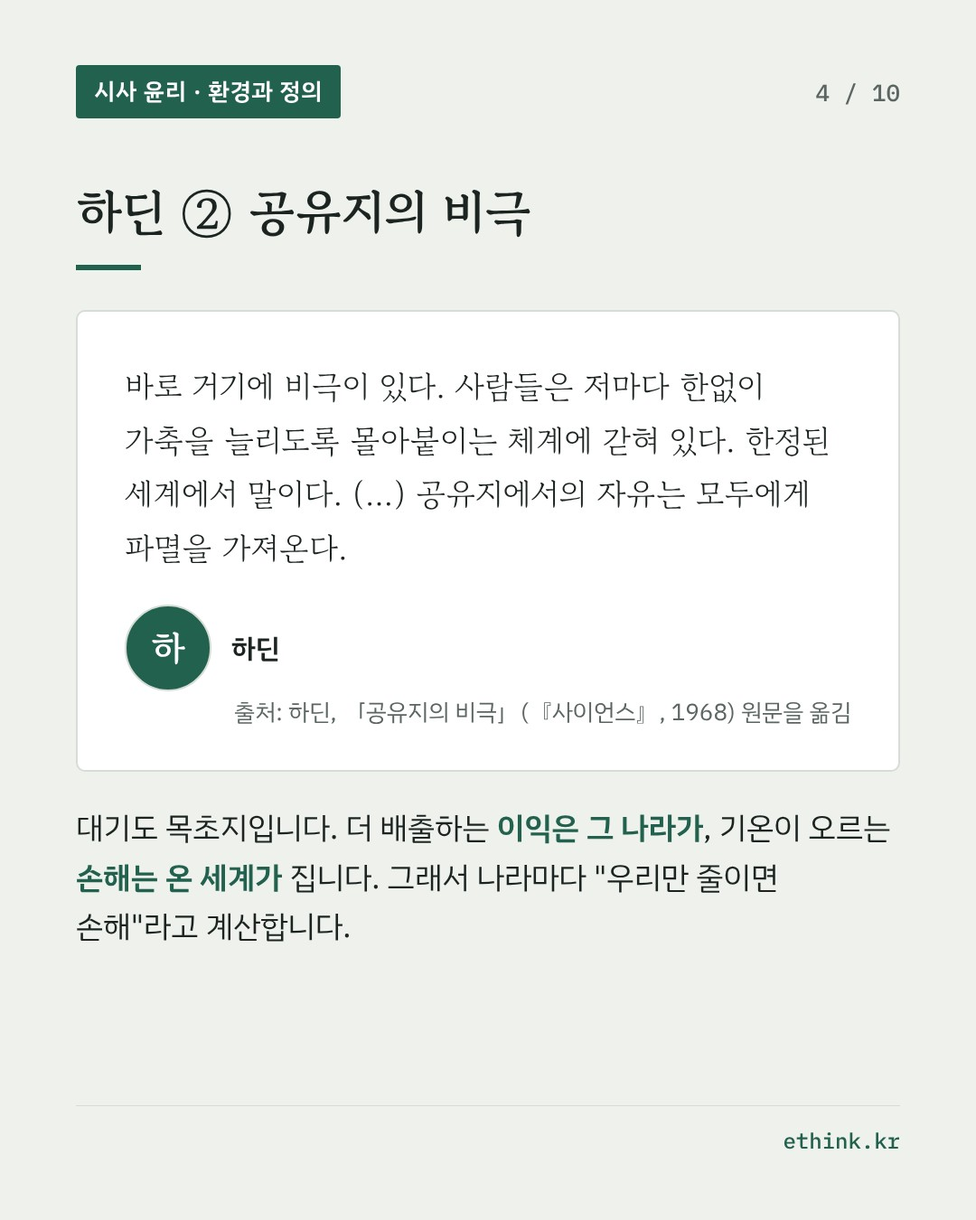
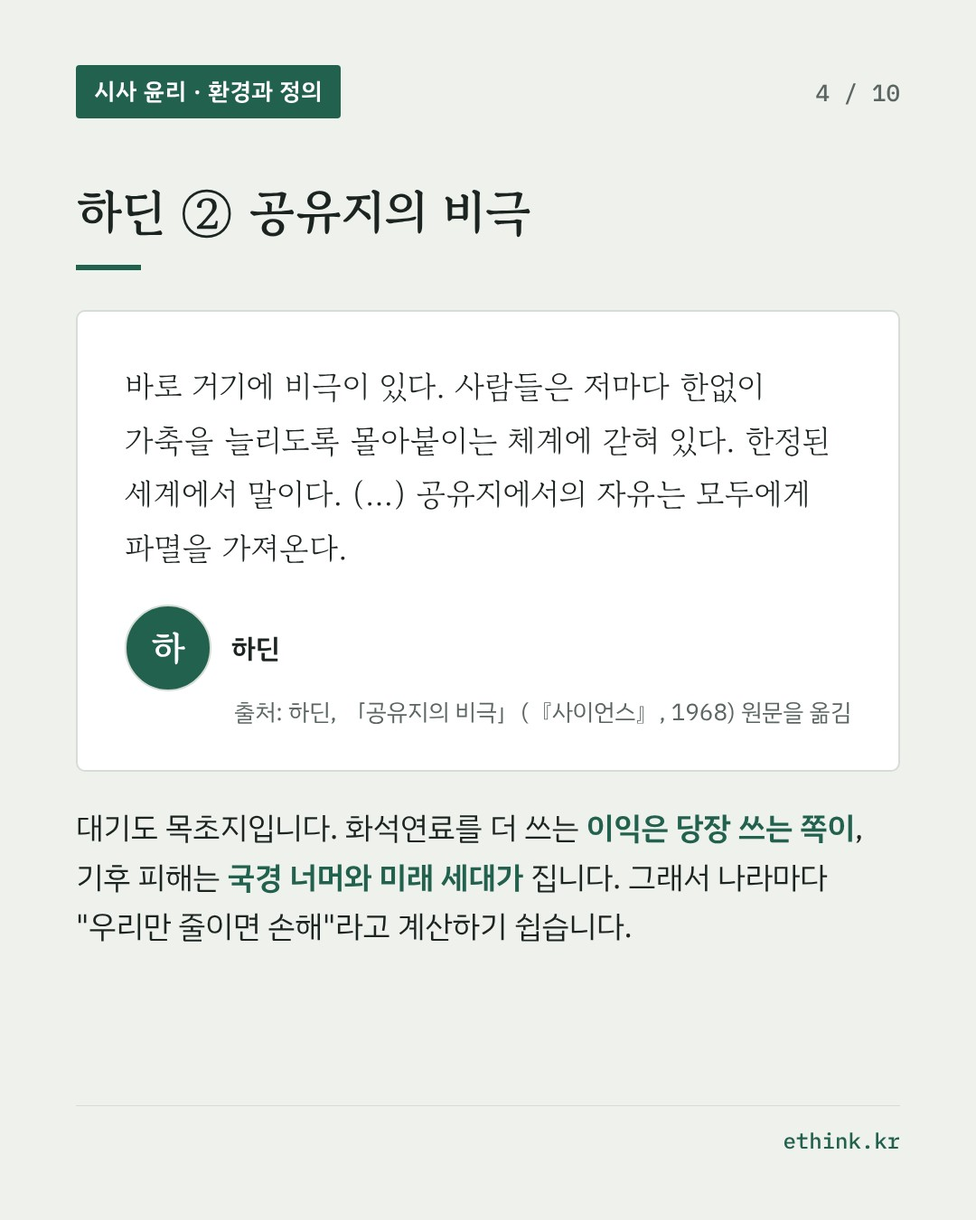
11.3 초안 수정: 검토 반영(1.5도 복귀 조건, 몫의 구분, 롤스 원칙 적용 주체, 하딘 다수 합의·오염·원조, 파리 협정 의무, 오스트롬, 중국 32% 출처, 목초지 게임 규칙), 카드 2·4·5·8장·캡션
Claude-Session: https://claude.ai/code/session_01KzEbiML6phoEPjeXzNiD6i

Changed region(s): [[0.0611, 0.6533, 0.9167, 0.7778]]

diff --git a/_items/2026-11-03/1.md b/_items/2026-11-03/1.md
@@ -13,25 +13,27 @@ sources:
     url: https://wedocs.unep.org/items/87c02cac-8da8-4c28-ba61-c846ee68ea70
   - name: 네덜란드 환경평가청 PBL (10.21)
     url: https://www.pbl.nl/en/publications/unep-emissions-gap-report-2026
-  - name: TIME (10.21)
-    url: https://time.com/article/2026/10/21/un-emissions-gap-report-what-to-know/
+  - name: 유엔환경계획 보도자료 (10.21)
+    url: https://www.unep.org/news-and-stories/press-release/new-unep-report-lays-out-emission-cuts-needed-return-15degc
+  - name: 네덜란드 환경평가청 PBL 보도자료 (10.21)
+    url: https://www.pbl.nl/en/latest/news/new-unep-report-lays-out-emission-cuts-needed-for-return-to-15degc
   - name: Materia Rinnovabile (10.21)
     url: https://www.renewablematter.eu/en/emissions-gap-report-2026-current-climate-commitments-are-not-enough
-  - name: The Brussels Times (10.22)
-    url: https://www.brusselstimes.com/2372746/overshoot-is-not-surrender-un-issues-strong-warnings-ahead-of-climate-change-summit
+  - name: 글로벌 탄소 프로젝트 「Global Carbon Budget 2025」 (2025.11.13)
+    url: https://www.cger.nies.go.jp/gcp/pdf/20251113/CarbonBudget2025_CICERO_press_E.pdf
   - name: 유엔기후변화협약 COP31 안내
     url: https://www.unfccc.int/cop31/the-road-to-antalya
 og_image: /assets/og/2026-11-03-1.jpg
 ---
 ##### 무슨 일이 있었나
 
-유엔환경계획(UNEP)이 10월 21일 「배출량 격차 보고서 2026」을 냈습니다. 부제는 「돌아올 지점(The Point of Return)」입니다. 보고서는 세계가 지금의 기후 정책을 그대로 이어 가면 이번 세기 안에 지구 평균기온이 산업화 이전보다 2.8도까지 오를 수 있다고 전망했습니다. 각국이 약속한 감축 목표를 모두 지키면 2.6도, 탄소 중립 목표까지 지키면 2.1도입니다. 파리 협정의 목표인 1.5도를 넘지 않는 길은 사실상 닫혔다고 보았습니다. 보고서의 대표 저자 미헐 덴 엘전은 "1.5도를 조금만 넘는 목표는 이제 불가능하다"고 말했습니다.
+유엔환경계획(UNEP)이 10월 21일 「배출량 격차 보고서 2026」을 냈습니다. 부제는 「돌아올 지점(The Point of Return)」입니다. 보고서는 세계가 지금의 기후 정책을 그대로 이어 가면 이번 세기 안에 지구 평균기온이 산업화 이전보다 2.8도까지 오를 수 있다고 전망했습니다. 각국이 약속한 감축 목표를 모두 지키고 그 뒤에도 비슷한 노력을 이어 가면 2.6도, 탄소 중립 목표까지 지키면 2.1도입니다. 파리 협정의 목표인 1.5도를 넘지 않는 길은 사실상 닫혔다고 보았습니다. 보고서 작성에 참여한 네덜란드 환경평가청(PBL)의 미헐 덴 엘전은 "1.5도를 조금만 넘는 목표는 이제 불가능하다"고 말했습니다.
 
-그래도 1.5도로 돌아올 길은 남아 있다고 보고서는 말합니다. 기온이 1.7~1.8도에서 정점을 찍고 2100년까지 1.5도로 내려오려면, 2025년보다 온실가스를 2030년까지 18%, 2035년까지 45%, 2040년까지 69% 줄여야 합니다. 그런데 각국이 지금 약속한 목표를 다 지켜도 2030년까지 5~8%, 2035년까지 11~15%밖에 줄지 않습니다. 지금 수준으로 5년을 더 배출할 때마다 정점 기온은 0.1도쯤 높아집니다. 좋은 소식도 있습니다. 파리 협정 뒤 세계의 재생에너지 발전 설비는 예상보다 세 배, 태양광은 일곱 배 빠르게 늘었습니다. 안토니우 구테흐스 유엔 사무총장은 보고서 발표에 맞춰 "책임이 가장 적은 사람들이 가장 먼저, 가장 혹독하게 대가를 치르고 있다"고 말했습니다. 이 보고서를 들고 각국 대표는 11월 9일부터 20일까지 튀르키예 안탈리아에서 열리는 제31차 유엔 기후변화협약 당사국총회(COP31)에 모입니다.
+그래도 1.5도로 돌아올 길은 남아 있다고 보고서는 말합니다. 이번 세기 중반 기온 상승을 1.7~1.8도에서 멈춘 뒤 2100년까지 1.5도 이하로 되돌리는 경로입니다. 그 가능성을 50% 정도로 본 시나리오입니다. 이 경로를 따르려면 2025년보다 온실가스를 2030년까지 18%, 2035년까지 45%, 2040년까지 69% 줄여야 합니다. 대기 중 이산화탄소를 빼내 오래 저장하는 일(이번 세기에 약 3,200억 톤)도 함께 필요합니다. 그런데 각국이 지금 약속한 목표를 다 지켜도 2030년까지 5~8%, 2035년까지 11~15%밖에 줄지 않습니다. 지금 수준의 이산화탄소 배출이 5년 더 이어질 때마다 정점 기온은 0.1도쯤 높아집니다. 좋은 소식도 있습니다. 파리 협정 뒤 세계의 재생에너지 발전 설비는 예상했던 속도보다 세 배, 태양광은 일곱 배 빠르게 늘었습니다. 안토니우 구테흐스 유엔 사무총장은 보고서 발표에 맞춰 "책임이 가장 적은 사람들이 가장 먼저, 가장 혹독하게 대가를 치르고 있다"고 말했습니다. 이 보고서를 들고 각국 대표는 11월 9일부터 20일까지 튀르키예 안탈리아에서 열리는 제31차 유엔 기후변화협약 당사국총회(COP31)에 모입니다.
 
 ##### 왜 윤리 문제인가
 
-2.8도라는 숫자는 과학의 전망입니다. 그런데 "그러니 누가 얼마나 줄여야 하는가"는 과학이 답해 주지 않습니다. 온실가스를 줄이는 데는 돈이 들고, 공장과 발전소를 바꿔야 하고, 성장을 늦춰야 할 때도 있습니다. 그 부담을 어떻게 나누느냐는 분배의 문제, 즉 정의의 문제입니다.
+2.8도라는 숫자는 과학의 전망입니다. 그런데 과학적 전망만으로는 "그러니 누가 얼마나 줄여야 하는가"의 기준까지 정할 수 없습니다. 온실가스를 줄이는 데는 돈이 들고, 공장과 발전소를 바꿔야 하고, 성장을 늦춰야 할 때도 있습니다. 그 부담을 어떻게 나누느냐는 분배의 문제, 즉 정의의 문제입니다.
 
 물음은 두 가지입니다. 첫째, 다들 위험을 아는데 왜 배출은 줄지 않는가. 둘째, 줄여야 한다면 그 몫은 무엇을 기준으로 나누는가. 먼저 많이 배출해 온 나라가 더 줄여야 하는가, 지금 많이 배출하는 나라가 더 줄여야 하는가, 아니면 사람 수대로 똑같이 나누어야 하는가.
 
@@ -39,7 +41,7 @@ og_image: /assets/og/2026-11-03-1.jpg
 
 ##### 하딘으로 읽기: 모두에게 열린 목초지
 
-하딘(1915~2003)은 미국의 생태학자입니다. 1968년 과학 학술지 『사이언스』에 「공유지의 비극」이라는 글을 실었습니다. 그는 19세기 영국 학자 로이드가 들었던 목초지 이야기로 글을 엽니다.
+하딘(1915~2003)은 미국의 생태학자입니다. 1968년 과학 학술지 『사이언스』에 「공유지의 비극」이라는 글을 실었습니다. 그는 이 글에서 19세기 영국 학자 로이드의 목초지 이야기를 가져와 공유지의 비극을 설명합니다.
 
 <figure class="src">
 <blockquote>
@@ -57,19 +59,39 @@ og_image: /assets/og/2026-11-03-1.jpg
 <figcaption><span class="who">하딘</span><span class="from">출처: 하딘, 「공유지의 비극」(『사이언스』, 1968) 원문을 옮김</span></figcaption>
 </figure>
 
-하딘은 같은 글에서 오염에도 이 비극이 되풀이된다고 말합니다. 목초지에서는 풀을 꺼내 가지만, 오염에서는 무언가를 버려 넣습니다. 강에 폐수를, 하늘에 매연을 버립니다. 버리는 사람은 깨끗하게 처리하는 비용을 아끼고, 더러워진 공기는 모두가 마십니다.
+하딘은 같은 글에서 오염도 다룹니다.
 
-이 생각을 이번 보고서에 대어 봅니다. 대기는 모두에게 열린 목초지입니다. 어느 나라든 온실가스를 더 내보내면 공장을 더 돌리고 전기를 더 싸게 쓰는 이익은 그 나라가 가집니다. 기온이 오르는 손해는 온 세계가 나눠 집니다. 그러니 나라마다 "우리만 줄이면 손해"라고 계산합니다. 재생에너지가 세 배 빠르게 늘었는데도 감축 약속이 필요한 양에 한참 못 미치는 까닭을 이 구조로 설명할 수 있습니다.
+<figure class="src">
+<blockquote>
+<p>거꾸로, 공유지의 비극은 오염 문제에서 다시 나타난다. 여기서는 공유지에서 무언가를 꺼내 가는 것이 아니라 무언가를 넣는 것이 문제다.</p>
+</blockquote>
+<figcaption><span class="who">하딘</span><span class="from">출처: 하딘, 「공유지의 비극」(『사이언스』, 1968) 원문을 옮김</span></figcaption>
+</figure>
 
-그렇다면 어떻게 해야 할까요? 하딘은 양심에 호소하는 것만으로는 부족하다고 보았습니다. 양심을 지킨 사람은 손해를 보고, 지키지 않은 사람은 이익을 봅니다. 그는 대신 "서로 합의한 상호 강제(mutual coercion, mutually agreed upon)"를 말했습니다. 모두가 함께 동의한 규칙으로 모두를 함께 묶자는 것입니다. 세금이나 사용 제한 같은 방식입니다.
+목초지에서는 풀을 꺼내 가지만, 오염에서는 무언가를 버려 넣습니다. 강에 폐수를, 하늘에 매연을 버립니다. 버리는 사람은 깨끗하게 처리하는 비용을 아끼고, 더러워진 공기는 모두가 마십니다.
 
-그런데 파리 협정은 나라마다 스스로 목표를 정해 내는 방식입니다. 목표를 지키지 못해도 벌을 주지 않습니다. 하딘의 눈으로 보면 이번 보고서의 '격차'는 놀라운 일이 아닙니다. 다만 하딘의 설명은 왜 줄지 않는지는 보여 주지만, 누가 얼마나 줄여야 하는지는 말해 주지 않습니다. 목동마다 소의 수가 다르고, 일찍부터 풀을 먹인 목동과 이제 막 소를 들인 목동이 있다면 어떻게 할까요? 둘째 물음으로 넘어갑니다.
+이 생각을 이번 보고서에 대어 봅니다. 대기는 모두에게 열린 목초지입니다. 화석연료를 더 쓰면 당장 생산과 소비에서 이익을 얻는 사람들이 있습니다. 반면 그로 인한 기후 피해는 국경을 넘어 퍼지고, 미래 세대에게도 이어집니다. 이익을 얻는 사람과 피해를 지는 사람이 다릅니다. 그러니 나라마다 "우리만 줄이면 손해"라고 계산하기 쉽습니다. 재생에너지가 빠르게 늘었는데도 감축 약속이 필요한 양에 한참 못 미치는 이유 가운데 하나를 이 구조로 설명할 수 있습니다.
+
+그렇다면 어떻게 해야 할까요? 하딘은 양심에 호소하는 것만으로는 부족하다고 보았습니다. 양심을 지킨 사람은 손해를 보고, 지키지 않은 사람은 이익을 봅니다. 그가 대신 내놓은 답은 이렇습니다.
+
+<figure class="src">
+<blockquote>
+<p>내가 권하는 유일한 강제는 서로 합의한 상호 강제, 곧 영향을 받는 사람들 다수가 합의한 강제다.</p>
+</blockquote>
+<figcaption><span class="who">하딘</span><span class="from">출처: 하딘, 「공유지의 비극」(『사이언스』, 1968) 원문을 옮김</span></figcaption>
+</figure>
+
+영향을 받는 사람들 다수가 동의한 규칙을 만들고, 그 규칙을 함께 지키게 하자는 것입니다. 세금이나 사용 제한 같은 방식입니다.
+
+파리 협정에서는 각국이 감축 목표를 스스로 정합니다. 목표를 제출하고 갱신하며 이행 상황을 보고할 의무는 있지만, 목표를 이루지 못했다고 벌금을 물리는 방식은 아닙니다. 하딘의 눈으로 보면 이번 보고서의 '격차'는 놀라운 일이 아닙니다.
+
+다만 공동으로 쓰는 자원이 언제나 망가지는 것은 아닙니다. 2009년 노벨 경제학상을 받은 오스트롬은 이용자들이 스스로 규칙을 만들고 함께 지켜 공동 자원을 오래 관리해 온 사례를 보여 주었습니다. 비극은 피할 수 있습니다. 다만 하딘의 설명은 왜 줄지 않는지는 보여 주지만, 누가 얼마나 줄여야 하는지는 말해 주지 않습니다. 목동마다 소의 수가 다르고, 일찍부터 풀을 먹인 목동과 이제 막 소를 들인 목동이 있다면 어떻게 할까요? 둘째 물음으로 넘어갑니다.
 
 <details class="more-read">
 <summary>원문 더 읽기: 하딘의 다른 비유, 구명보트</summary>
 <div class="more-body">
 
-<p>하딘은 공유지의 비극으로 기후만이 아니라 인구와 원조 문제도 설명하려 했습니다. 길벗 『윤리문제 탐구』 교과서는 그의 '구명보트' 비유를 토론 활동으로 싣고 있습니다. 하딘은 이 비유로 부유한 나라가 가난한 나라를 돕는 데 신중해야 한다는 주장을 폈습니다. 원조를 의무로 본 싱어와 반대편에 선 셈입니다.</p>
+<p>하딘은 공유지의 비극으로 기후만이 아니라 인구와 원조 문제도 설명하려 했습니다. 길벗 『윤리문제 탐구』 교과서는 그의 '구명보트' 비유를 토론 활동으로 싣고 있습니다. 하딘은 이 비유로 부유한 나라의 원조가 장기적으로 더 큰 문제를 낳을 수 있다며 가난한 나라에 대한 원조에 반대했습니다. 원조를 의무로 본 싱어와 반대편에 선 셈입니다.</p>
 
 <figure class="src">
 <blockquote>
@@ -85,7 +107,7 @@ og_image: /assets/og/2026-11-03-1.jpg
 
 ##### 싱어로 읽기: 대기라는 수채통
 
-싱어(1946~)는 오스트레일리아 출신의 철학자입니다. 『동물 해방』으로 잘 알려져 있지만, 세계의 가난과 기후 문제에도 같은 물음을 던졌습니다. 고통받는 사람이 어디에 사느냐가 그 고통의 무게를 바꾸지 않는다는 것입니다. 그는 『세계화의 윤리』(원제 『하나의 세계』)에서 기후 문제를 한 마을 이야기로 풉니다.
+싱어(1946~)는 오스트레일리아 출신의 철학자입니다. 『동물 해방』으로 잘 알려져 있지만, 세계의 가난과 기후 문제에도 같은 물음을 던졌습니다. 고통받는 사람이 어디에 사느냐가 그 고통의 무게를 바꾸지 않는다는 것입니다. 그는 『세계화의 윤리』(원제 『하나의 세계』)에서 기후 문제를 한 마을 이야기로 풉니다. 수채통은 더러운 물이나 쓰레기를 받아 내는 통입니다.
 
 <figure class="src">
 <blockquote>
@@ -103,9 +125,9 @@ og_image: /assets/og/2026-11-03-1.jpg
 <figcaption><span class="who">싱어</span><span class="from">출처: 싱어, 『세계화의 윤리』(김희정 옮김, 아카넷)</span></figcaption>
 </figure>
 
-"충분하고도 남 못지않게 많이"는 로크가 사유 재산을 정당화하면서 쓴 말입니다. 공동의 것을 내 것으로 가져가도, 다른 사람 몫이 넉넉히 남아 있다면 괜찮다는 조건입니다. 이번 보고서는 그 조건이 깨졌다고 말하는 셈입니다. 1.5도 안에서 배출할 수 있는 여유는 이미 거의 다 썼습니다. 그렇다면 남은 몫과 줄일 몫을 어떻게 나눌까요? 싱어는 기준 몇 가지를 차례로 따집니다.
+"충분하고도 남 못지않게 많이"는 로크가 사유 재산을 정당화하면서 쓴 말입니다. 공동의 것을 내 것으로 가져가도, 다른 사람 몫이 넉넉히 남아 있다면 괜찮다는 조건입니다. 이번 보고서는 그 조건이 깨졌다고 말하는 셈입니다. 1.5도 안에서 배출할 수 있는 여유는 이미 거의 다 썼습니다. 그렇다면 무엇을 어떻게 나눌까요? 여기서 나누어야 할 것은 하나가 아닙니다. 앞으로 배출할 수 있는 양, 지금보다 줄여야 할 양, 줄이는 데 드는 비용은 서로 다릅니다. 사람마다 배출할 수 있는 몫을 같게 정하더라도, 지금 많이 배출하는 사람은 더 많이 줄여야 합니다. 이 점을 염두에 두고 싱어가 따진 기준을 차례로 봅니다.
 
-첫째 기준은 "망가뜨린 사람이 고친다"입니다. 싱어는 이것을 욕조 비유로 설명합니다.
+첫째 기준은 "망가뜨린 사람이 고친다"입니다. 수채통이 쓸 수 있는 양의 한계를 보여 준다면, 싱어의 욕조 비유는 누가 책임져야 하는지를 보여 줍니다.
 
 <figure class="src">
 <blockquote>
@@ -134,11 +156,11 @@ og_image: /assets/og/2026-11-03-1.jpg
 <figcaption><span class="who">싱어</span><span class="from">출처: 싱어, 『세계화의 윤리』(김희정 옮김, 아카넷)</span></figcaption>
 </figure>
 
-둘째 기준은 사람 수대로 똑같이 나누는 것입니다. 나라가 아니라 사람을 단위로 셉니다. 그러면 인구가 많아도 한 사람이 적게 배출하는 나라는 몫이 남고, 한 사람이 많이 배출하는 나라는 크게 줄여야 합니다. 싱어는 이 기준을 지지하면서도, 이것이 오히려 부유한 나라에 너그러운 기준이라고 덧붙입니다. 과거에 많이 쓴 몫은 셈하지 않으니까요.
+둘째 기준은 앞으로 배출할 수 있는 몫을 사람 수대로 똑같이 나누는 것입니다. 모두가 같은 양을 줄이자는 뜻이 아닙니다. 나라가 아니라 사람을 단위로 셉니다. 그러면 인구가 많아도 한 사람이 적게 배출하는 나라는 몫이 남고, 한 사람이 많이 배출하는 나라는 크게 줄여야 합니다. 싱어는 이 기준을 지지하면서도, 이것이 오히려 부유한 나라에 너그러운 기준이라고 덧붙입니다. 과거에 많이 쓴 몫은 셈하지 않으니까요.
 
-셋째 기준은 가장 어려운 사람의 처지입니다. 싱어는 롤스의 정의론을 빌려, 줄이는 비용을 나눌 때 가난한 나라를 더 가난하게 만드는 방식은 받아들일 수 없다고 봅니다. 구테흐스가 말한 "책임이 가장 적은 사람들"이 먼저 대가를 치르는 지금의 모습과 이어지는 물음입니다.
+셋째 기준은 가장 불리한 사람들의 처지를 살피는 것입니다. 싱어는 롤스의 정의 원칙을 나라 사이의 기후 문제에 적용해 봅니다. 부유한 나라가 감축 비용을 더 많이 지는 방안이 가난한 나라의 처지를 낫게 한다면, 그 부담을 거부하기 어렵다는 것입니다. 롤스 자신이 기후 비용을 이렇게 나누자고 한 것은 아닙니다. 롤스의 원칙을 기후에 대어 본 것은 싱어입니다. 이 기준은 구테흐스가 말한 "책임이 가장 적은 사람들"이 먼저 대가를 치르는 지금의 모습과도 이어집니다.
 
-세 기준은 서로 다른 답을 냅니다. 즉, "공정하게 줄이자"는 말에는 누구도 반대하지 않지만, 무엇을 공정으로 보느냐에 따라 같은 나라가 짊어질 몫이 크게 달라집니다.
+세 기준을 각각 적용하면 같은 나라가 짊어질 몫이 크게 달라질 수 있습니다. 여러 기준을 묶어 쓸 수도 있습니다. 싱어도 1인당 같은 몫에 배출권 거래를 더하는 방안을 내놓습니다. "공정하게 줄이자"는 말에는 누구도 반대하지 않지만, 무엇을 공정으로 보느냐는 따로 따져야 합니다.
 
 <details class="more-read">
 <summary>원문 더 읽기: 싱어가 따진 '가장 못 가진 자들 돕기'와 '과거는 잊자'</summary>
@@ -162,7 +184,7 @@ og_image: /assets/og/2026-11-03-1.jpg
 <figcaption><span class="who">싱어</span><span class="from">출처: 싱어, 『세계화의 윤리』(김희정 옮김, 아카넷)</span></figcaption>
 </figure>
 
-<p>이 책은 2002년에 나왔고, 싱어가 든 배출 수치도 그 무렵의 자료입니다. 그 뒤 중국과 인도 같은 나라의 배출이 크게 늘어 지금은 중국이 세계 배출의 30% 안팎을 차지합니다. 다만 한 사람이 내는 양과 산업화 이후 쌓인 양으로 보면 순위가 또 달라집니다. 어떤 수치를 고르느냐가 곧 어떤 기준을 고르느냐와 이어집니다.</p>
+<p>이 책은 2002년에 나왔고, 싱어가 든 배출 수치도 그 무렵의 자료입니다. 그 뒤 중국과 인도 같은 나라의 배출이 크게 늘었습니다. 2025년 「Global Carbon Budget」 자료에서 중국은 세계 연간 화석연료 이산화탄소 배출의 약 32%를 차지합니다. 싱어가 든 미국의 수치는 과거 일정 기간의 누적 배출이므로 두 비율을 바로 견줄 수는 없습니다. 다만 한 사람이 내는 양과 산업화 이후 쌓인 양으로 보면 순위가 또 달라집니다. 어떤 수치를 고르느냐가 곧 어떤 기준을 고르느냐와 이어집니다.</p>
 
 </div>
 </details>
@@ -176,20 +198,20 @@ og_image: /assets/og/2026-11-03-1.jpg
 <figcaption><span class="from">출처: 『윤리문제 탐구』(길벗) 157쪽</span></figcaption>
 </figure>
 
-교과서의 첫 문장은 싱어의 첫째 기준(망가뜨린 사람이 고친다)과, 마지막 문장은 셋째 기준(가난한 나라를 더 어렵게 만들지 않는다)과 닿아 있습니다. 같은 쪽에서 교과서는 미래 세대에 대한 책임을 말한 요나스도 함께 다룹니다. 지금 사는 나라들 사이의 몫만이 아니라, 아직 태어나지 않은 사람의 몫도 이 수채통에 걸려 있습니다.
+교과서의 첫 문장은 싱어의 첫째 기준(망가뜨린 사람이 고친다)과, 마지막 문장은 셋째 기준(가장 불리한 나라의 처지를 살핀다)과 닿아 있습니다. 같은 쪽에서 교과서는 미래 세대에 대한 책임을 말한 요나스도 함께 다룹니다. 지금 사는 나라들 사이의 몫만이 아니라, 아직 태어나지 않은 사람의 몫도 이 수채통에 걸려 있습니다.
 
 ##### 수업에서 쓰는 법
 
 이 사례에서는 하딘으로 "왜 줄지 않는가"를, 싱어로 "어떻게 나눌 것인가"를 다룹니다. 어느 나라가 나쁜지 고르게 하지 않습니다. 몫을 나누는 기준을 비교하고, 그 기준이 누구에게 유리하고 누구에게 불리한지 따지게 합니다.
 
 <figure class="fig">
-<p class="fig-title">줄이는 몫을 나누는 세 가지 기준(싱어)</p>
+<p class="fig-title">싱어의 논의를 바탕으로 정리한 기후 책임의 세 기준</p>
 <div class="scale scale-three">
 <div class="scale-cell"><p class="scale-head">망가뜨린 사람이 고친다</p><p>지금까지 쌓인 배출량에 따라 나눈다</p><p class="scale-ex">욕조 하수구를 막은 머리카락의 양, 산업화 이후의 누적 배출</p></div>
-<div class="scale-cell"><p class="scale-head">모든 사람에게 같은 몫</p><p>과거는 묻지 않고 사람 수대로 똑같이 나눈다</p><p class="scale-ex">1인당 배출량, 나라가 아니라 사람을 단위로</p></div>
-<div class="scale-cell"><p class="scale-head">가장 어려운 사람을 먼저</p><p>가난한 나라를 더 가난하게 만들지 않게 나눈다</p><p class="scale-ex">롤스의 정의 원칙, 지불 능력, 피해를 먼저 입는 나라</p></div>
+<div class="scale-cell"><p class="scale-head">모든 사람에게 같은 몫</p><p>앞으로 배출할 수 있는 몫을 과거는 묻지 않고 사람 수대로 똑같이 나눈다</p><p class="scale-ex">1인당 배출 허용량, 나라가 아니라 사람을 단위로. 지금 많이 배출하는 쪽은 더 많이 줄여야 한다</p></div>
+<div class="scale-cell"><p class="scale-head">가장 불리한 사람의 처지</p><p>나누는 방식이 가장 불리한 나라의 처지에 어떤 영향을 주는지 따진다</p><p class="scale-ex">싱어가 기후에 적용한 롤스의 정의 원칙. 가까운 기준으로 지불 능력(여력이 큰 쪽이 더 낸다), 피해 취약성(피해에 약한 쪽을 먼저 보호한다)이 있다</p></div>
 </div>
-<p class="fig-note">세 기준은 서로 다른 답을 냅니다. 같은 나라도 어느 기준으로 보느냐에 따라 '더 줄여야 하는 나라'가 되기도 하고 '아직 여유가 있는 나라'가 되기도 합니다.</p>
+<p class="fig-note">세 기준을 각각 적용하면 부담이 달라질 수 있고, 여러 기준을 묶어 쓸 수도 있습니다. 같은 나라도 어느 기준으로 보느냐에 따라 '더 줄여야 하는 나라'가 되기도 하고 '아직 여유가 있는 나라'가 되기도 합니다.</p>
 </figure>
 
 <figure class="fig">
@@ -198,9 +220,9 @@ og_image: /assets/og/2026-11-03-1.jpg
 <li><span class="flow-step">사실 정리하기</span><br>
 <span class="flow-desc">보고서의 세 전망(지금 정책 2.8도, 약속을 모두 지키면 2.6도, 탄소 중립 목표까지 지키면 2.1도)과 필요한 감축량(2035년까지 45%)을 나눠 적는다. 전망과 확정된 사실을 구분한다</span></li>
 <li><span class="flow-step">목초지 게임</span><br>
-<span class="flow-desc">모둠마다 목동을 맡아 사탕(풀)을 몇 개 가져갈지 몰래 정한다. 한 판이 끝날 때마다 남은 사탕이 줄어드는 규칙으로 세 판쯤 한다. 왜 모두 손해를 보는 쪽으로 가는지 하딘의 말로 설명한다</span></li>
+<span class="flow-desc">모둠원 4명이 공동 목초지를 쓰는 목동을 맡는다. 풀을 나타내는 토큰 20개를 놓고, 각자 한 판에 가져갈 토큰 수(0~4개)를 몰래 정해 동시에 공개한다. 판이 끝나면 남은 토큰이 두 배로 늘어나되 20개를 넘지 않는다. 개인은 토큰을 많이 모을수록 좋지만, 모둠은 세 판 뒤에도 목초지를 남겨야 한다. 첫 활동 뒤 이용 규칙을 함께 정하고 다시 해 본다. 두 결과를 견주어 하딘의 문제와 규칙의 역할을 설명한다</span></li>
 <li><span class="flow-step">하딘으로 읽기</span><br>
-<span class="flow-desc">목초지와 대기가 어떻게 닮았는지 정리하고, '서로 합의한 상호 강제'가 국제 사회에서는 어떤 모습일지(세금, 배출권 거래, 협약) 찾아본다. 파리 협정이 각국 스스로 목표를 내는 방식이라는 점도 짚는다</span></li>
+<span class="flow-desc">목초지와 대기가 어떻게 닮았는지 정리하고, '서로 합의한 상호 강제'가 국제 사회에서는 어떤 모습일지(세금, 배출권 거래, 협약) 찾아본다. 파리 협정이 각국 스스로 목표를 정하되 제출·갱신·보고 의무를 두는 방식이라는 점도 짚는다</span></li>
 <li><span class="flow-step">싱어로 읽기</span><br>
 <span class="flow-desc">욕조 비유로 첫째 기준을, "아무런 이유가 없다"는 대답으로 둘째 기준을, 롤스의 원칙으로 셋째 기준을 정리한다. 선진국의 반론(몰랐다)과 싱어의 재반론(1990년 이후)도 적는다</span></li>
 <li><span class="flow-step">몫 나누기 설계하기</span><br>
@@ -214,8 +236,8 @@ og_image: /assets/og/2026-11-03-1.jpg
 <tbody>
 <tr class="tbl-ex"><td>망가뜨린 사람이 고친다(누적 배출)</td><td>늦게 산업화한 나라</td><td>산업화 이후 나라별 누적 배출량</td><td>위험을 몰랐던 시기의 배출까지 묻기 어렵다. 1990년 이후만 따로 셈하는 방법을 생각해 본다</td></tr>
 <tr><td>모든 사람에게 같은 몫(1인당)</td><td></td><td>나라별 1인당 배출량, 인구</td><td></td></tr>
-<tr><td>가장 어려운 사람을 먼저(지불 능력)</td><td></td><td>나라별 소득, 기후 피해 자료</td><td></td></tr>
-<tr><td>지금 많이 내는 나라가 더 줄인다(현재 배출)</td><td></td><td>나라별 올해 배출량</td><td></td></tr>
+<tr><td>가장 불리한 사람의 처지(지불 능력, 피해 취약성)</td><td></td><td>나라별 소득, 기후 피해 자료</td><td></td></tr>
+<tr><td>지금 많이 내는 나라가 더 줄인다(현재 배출)</td><td></td><td>같은 기준으로 집계한 최신 연도의 나라별 배출량</td><td></td></tr>
 </tbody>
 </table>
 
@@ -225,4 +247,4 @@ og_image: /assets/og/2026-11-03-1.jpg
 
 이 사례로 탐구 보고서를 쓰려는 학생에게는 세 가지 주제를 권합니다. 첫째, 공유지의 비극을 피한 실제 사례(오존층을 지킨 몬트리올 의정서, 마을 단위의 공동 자원 관리)를 조사하고 기후와 무엇이 다른지 비교하는 주제입니다. 둘째, 싱어의 세 기준으로 한국의 2035년 감축 목표를 평가하는 주제입니다. 셋째, 하딘과 싱어가 원조에 대해 어떻게 다르게 생각했는지 정리하는 주제입니다.
 
-마무리 질문은 학생에게 돌려줍니다. 내가 오늘 쓴 전기와 물건에는 얼마만큼의 수채통이 들어 있는가. 그리고 그 몫을 나는 누구와 나누고 있는가.
+마무리 질문은 학생에게 돌려줍니다. 내가 오늘 쓴 전기와 물건은 얼마나 많은 온실가스 배출과 이어져 있을까. 그 배출을 줄이려면 나와 기업, 정부는 각각 어떤 책임을 져야 할까.
